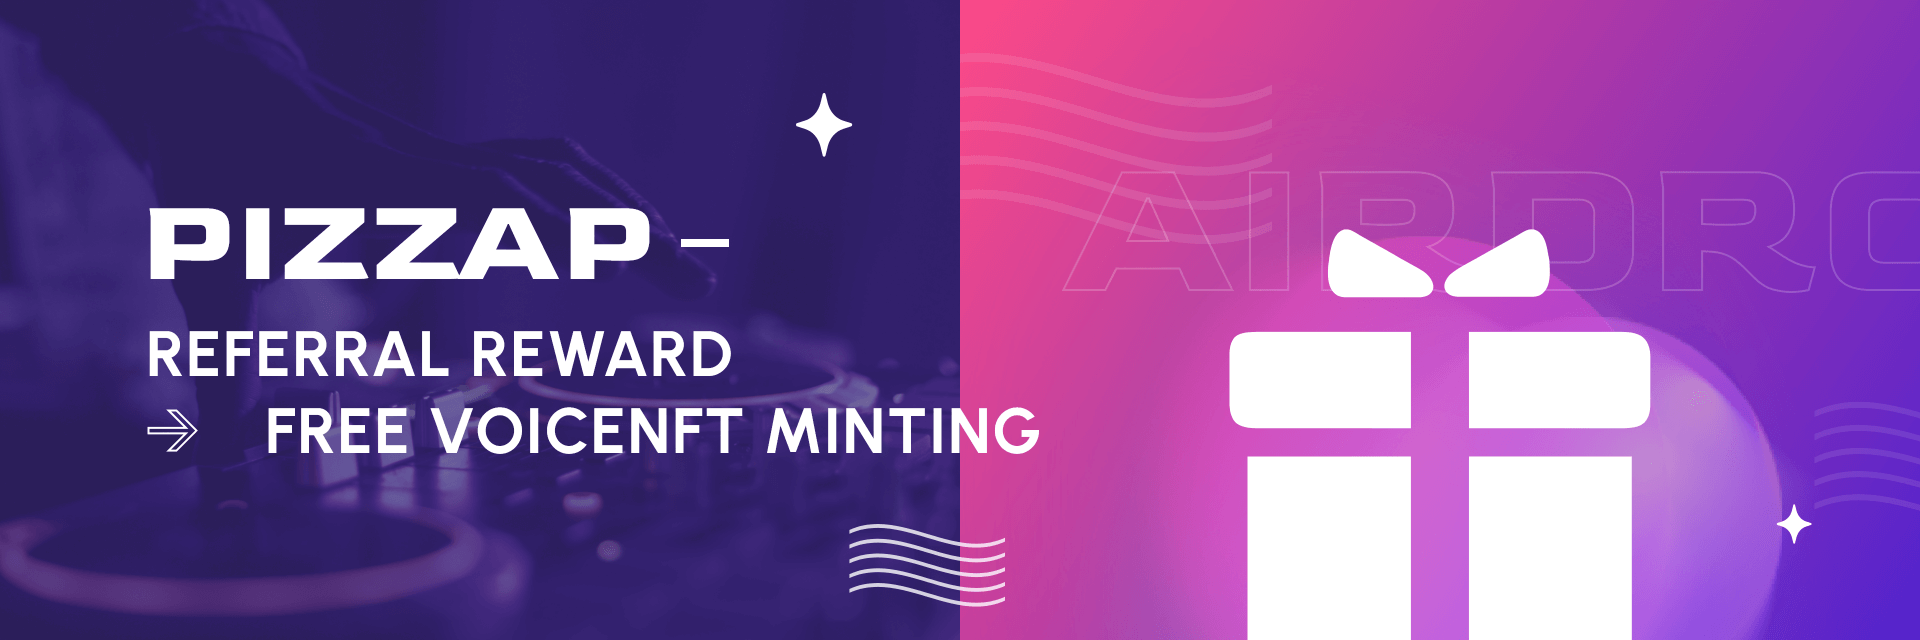
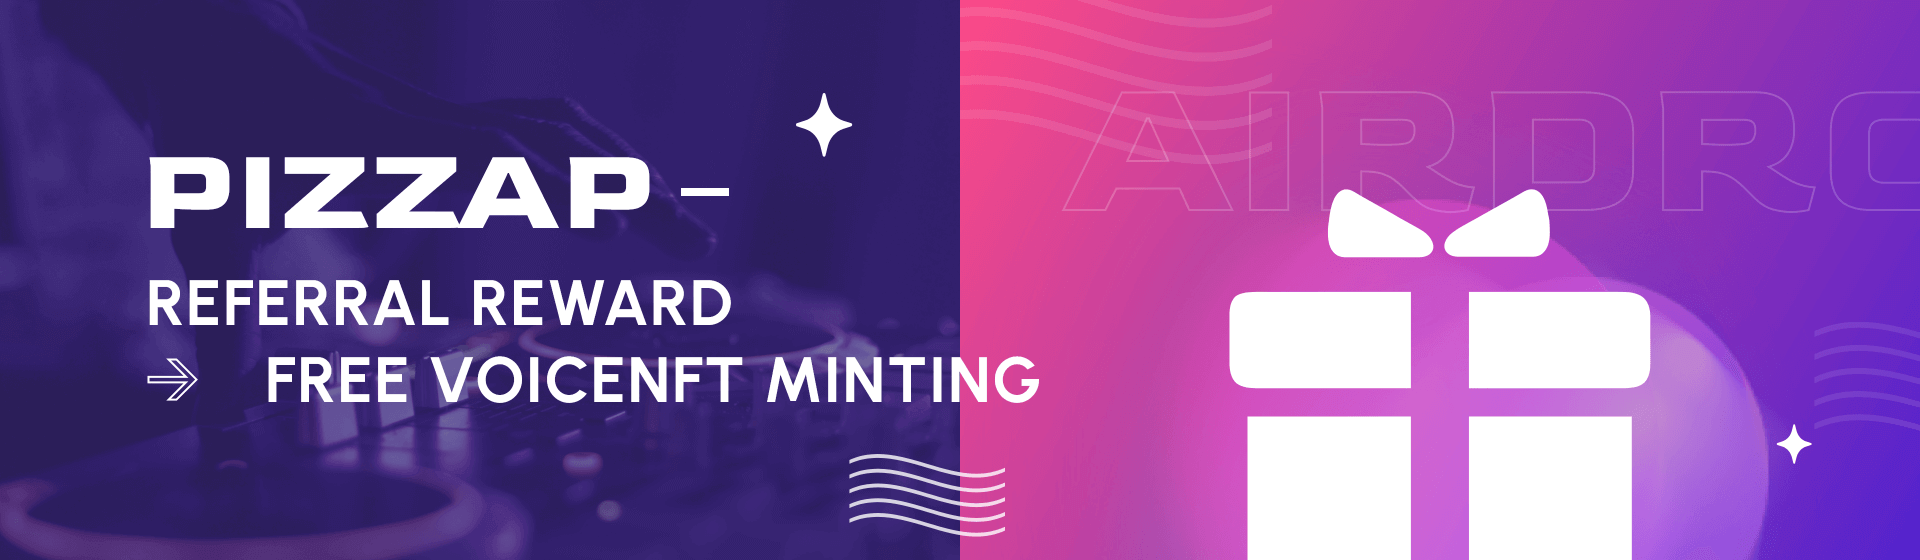
i

diff --git a/src/views/market.all/index.tsx b/src/views/market.all/index.tsx
@@ -17,6 +17,9 @@ interface DataType {
     collection_name: string;
     floor_price: number,
     listed_amount: number;
+    pay_token_name: string;
+    total_supply: number;
+    owners_amount: number;
 }
 
 const columns: ColumnsType<DataType> = [
@@ -40,28 +43,38 @@ const columns: ColumnsType<DataType> = [
         )
     },
     {
-        title: 'Vloume',
-        dataIndex: 'age',
-        key: 'age',
+        title: 'Sales',
+        dataIndex: 'listed_amount',
+        key: 'listed_amount'
     },
     {
         title: 'Floor Price',
         dataIndex: 'floor_price',
         key: 'floor_price',
-        align:'center',
-        render: (_, { floor_price }) => <p>
-            {floor_price}&nbsp;Pi
+        align: 'center',
+        render: (_, { floor_price, pay_token_name }) => <p>
+            {floor_price}&nbsp;{pay_token_name}
         </p>
     },
     {
-        title: 'Sales',
-        dataIndex: 'age',
-        key: 'age',
+        title: 'Total Items',
+        dataIndex: 'total_supply',
+        key: 'total_supply',
+    },
+    {
+        title: 'Owners',
+        dataIndex: 'owners_amount',
+        key: 'owners_amount',
     },
     {
         title: '% Unique owners',
-        dataIndex: 'age',
-        key: 'age',
+        dataIndex: 'owners_amount',
+        align:'right',
+        key: 'owners_amount',
+        render: (_, { owners_amount, total_supply }) => <div className="flex-d">
+            <p>{(owners_amount / total_supply).toFixed(2)}%</p>
+            <p>{owners_amount}&nbsp;owners</p>
+        </div>
     },
 ];
 
@@ -70,17 +83,20 @@ const MarketViewAll = (): ReactElement<ReactNode> => {
     const [openCate, setOpenCate] = useState(false);
     const [openSort, setOpenSort] = useState(false);
     const [categoryList, setCategoryList] = useState<Category[]>([]);
+    const [wait, setWait] = useState<boolean>(false);
     const [selectCate, setSelectCate] = useState<Category>({
         category_name: 'All categories',
         category_id: 0
     })
     const getCategoryList = async () => {
+        setWait(true)
         const result = await CategoryList({ page_size: 100 });
         const { data } = result;
         data.data.item.unshift({
             category_name: 'All categories',
             category_id: 0
         })
+        setWait(false)
         setCategoryList(data.data.item);
     };
     useEffect(() => {
@@ -160,6 +176,11 @@ const MarketViewAll = (): ReactElement<ReactNode> => {
                         <ul>
                             <li>All chains</li>
                             <li>
+                                <Tooltip title="Ethereum">
+                                    <img src={require('../../assets/new/eth_logo.png')} alt="" />
+                                </Tooltip>
+                            </li>
+                            <li>
                                 <Tooltip title="Plian">
                                     <img src={require('../../assets/new/plian_logo_black.png')} alt="" />
                                 </Tooltip>
@@ -184,7 +205,7 @@ const MarketViewAll = (): ReactElement<ReactNode> => {
                 </div>}
             </div>
             <div className="data-box">
-                <Table columns={columns} dataSource={data} />
+                <Table loading={wait} columns={columns} dataSource={data} />
             </div>
             <FooterNew />
         </div>

diff --git a/src/views/detail.new/index.tsx b/src/views/detail.new/index.tsx
@@ -21,11 +21,11 @@ interface Info {
     contract_address: string,
     price: string,
     file_description: string,
-    seller:string
+    seller: string
 }
 
 const DetailNewView = (): ReactElement<ReactNode> => {
-    const { state,dispatch } = useContext(PNft);
+    const { state, dispatch } = useContext(PNft);
     const [loading, setLoading] = useState<boolean>(false);
     const [imgLoad, setImgLoad] = useState<boolean>(true);
     const navigate = useNavigate();
@@ -90,7 +90,7 @@ const DetailNewView = (): ReactElement<ReactNode> => {
                                 <p className="msg-title">Current price</p>
                                 <div className="price-text">
                                     <img src={require('../../assets/images/pi_logo.png')} alt="" />
-                                    <p>{web3.utils.fromWei(info?.price as string, 'ether')}</p>
+                                    {info?.price && <p>{web3.utils.fromWei(info?.price as string, 'ether')}</p>}
                                     <p>Price</p>
                                 </div>
                                 <p className="buy-btn">
@@ -125,7 +125,7 @@ const DetailNewView = (): ReactElement<ReactNode> => {
                         </div>
                     </div>
                     <MsgCard about="" description={info!.file_description} />
-                    <TradeHistory image_minio_url={info.image_minio_url} tokenID={info!.token_id} address={info!.contract_address} />
+                    <TradeHistory price={info.price} paymod="PI" image_minio_url={info.image_minio_url} tokenID={info!.token_id} address={info!.contract_address} />
                     <FooterNew />
                     <BuyNFTsModal visible={takeVisible} closeModal={(val: boolean) => {
                         setTakeVisible(val)

diff --git a/src/views/market.place.new/components/collection.card.tsx b/src/views/market.place.new/components/collection.card.tsx
@@ -36,7 +36,7 @@ const CollectionCard = (): ReactElement => {
             page_size: 2
         });
         const { data } = result;
-        setWait(false)
+        setWait(false);
         setData(data.data.item);
     };
     useEffect(() => {
@@ -55,12 +55,12 @@ const CollectionCard = (): ReactElement => {
             <div className="card-title-filter">
                 <p className="title-tag">Explore Collections</p>
                 <div className="filter-box">
-                    <Popover onOpenChange={handleOpenChange} open={open} content={content} placement="bottom" trigger={['click']} title={null}>
+                    {/* <Popover onOpenChange={handleOpenChange} open={open} content={content} placement="bottom" trigger={['click']} title={null}>
                         <div className="select-chain">
                             <p>All chains</p>
                             <IconFont type="icon-xiangxia" className={`${open ? 'down-arrow' : ''}`} />
                         </div>
-                    </Popover>
+                    </Popover> */}
                     <div className="view-more">
                         <Button type="default" onClick={() => {
                             navigate('/collection')

diff --git a/src/views/detail.new/components/trade.history.tsx b/src/views/detail.new/components/trade.history.tsx
@@ -6,7 +6,7 @@ import { web3 } from "../../../utils/types";
 import { calsAddress } from "../../../utils";
 import IconFont from "../../../utils/icon";
 
-const TabHistory = (props:{tokenID:number,address:string,image_minio_url:string}): ReactElement => {
+const TabHistory = (props:{tokenID:number,address:string,image_minio_url:string,price:string,paymod:string}): ReactElement => {
     const { state } = useContext(PNft);
     const [data, setData] = useState<any[]>([]);
     const logsListFN = async () => {
@@ -67,7 +67,7 @@ const TabHistory = (props:{tokenID:number,address:string,image_minio_url:string}
                                     </li>
                                     <li>
                                         {/* <p>$64321.12</p> */}
-                                        <p className="color-g">{Number(web3.utils.fromWei(state.card.price, 'ether')).toFixed(2)}&nbsp;{state.card.paymod}</p>
+                                        <p className="color-g">{Number(web3.utils.fromWei(props.price, 'ether')).toFixed(2)}&nbsp;{props.paymod}</p>
                                     </li>
                                     <li>
                                         <p>{calsAddress(item.From)}</p>

diff --git a/src/views/market.new/index.tsx b/src/views/market.new/index.tsx
@@ -33,6 +33,7 @@ const MarketViewNew = (): ReactElement<ReactNode> => {
     const { state } = useContext(PNft);
     const [sideList, setSideList] = useState<Account[]>([]);
     const [wait, setWait] = useState<boolean>(false);
+    const [bgLoad, setBgLoad] = useState<boolean>(true);
     const getInfo = async () => {
         setWait(true);
         const result = await CollectionInfo({
@@ -78,7 +79,12 @@ const MarketViewNew = (): ReactElement<ReactNode> => {
                     </div>
                     : <div>
                         <div className="bg-box">
-                            <img src={info?.bg_image_minio_url} alt="" />
+                            <img src={info?.bg_image_minio_url} onLoad={() => {
+                                setBgLoad(false)
+                            }} alt="" />
+                            {bgLoad && <div className="load">
+                                <Spin size="large" />
+                            </div>}
                         </div>
                         <div className="content-box">
                             <div className="collection-logo">

diff --git a/src/views/market.all/index.scss b/src/views/market.all/index.scss
@@ -51,6 +51,14 @@
               transform: translateY(1px);
             }
           }
+          li:nth-child(2){
+            img{
+                width: 20px;
+                height: 20px;
+                display: inline-block;
+                transform: translateY(4px);
+            }
+          }
           li:first-child {
             background-color: white;
             border-radius: 16px;
@@ -75,6 +83,11 @@
         margin-left: 30px;
         font-size: 16px;
       }
+    }
+    .flex-d {
+      display: flex;
+      flex-direction: column;
+      align-items: flex-end;
     }
   }
   .footer-wapper-new {

diff --git a/src/views/market.new/index.scss b/src/views/market.new/index.scss
@@ -9,6 +9,17 @@
   .bg-box {
     width: 100%;
     height: 500px;
+    position: relative;
+    .load {
+      position: absolute;
+      width: 100%;
+      height: 100%;
+      display: flex;
+      align-items: center;
+      justify-content: center;
+      top: 0;
+      left: 0;
+    }
     img {
       width: 100%;
       height: 100%;

diff --git a/src/views/airdrop/index.scss b/src/views/airdrop/index.scss
@@ -837,11 +837,12 @@
   padding-bottom: 0;
   .bg-box-new {
     width: 100%;
-    height: 640px;
+    height: 560px;
+    overflow: hidden;
   }
   .pc-card {
     display: flex;
-    margin-top: 120px;
+    margin-top: 80px;
     padding: 0 140px;
     .tabs {
       margin-top: 0;
